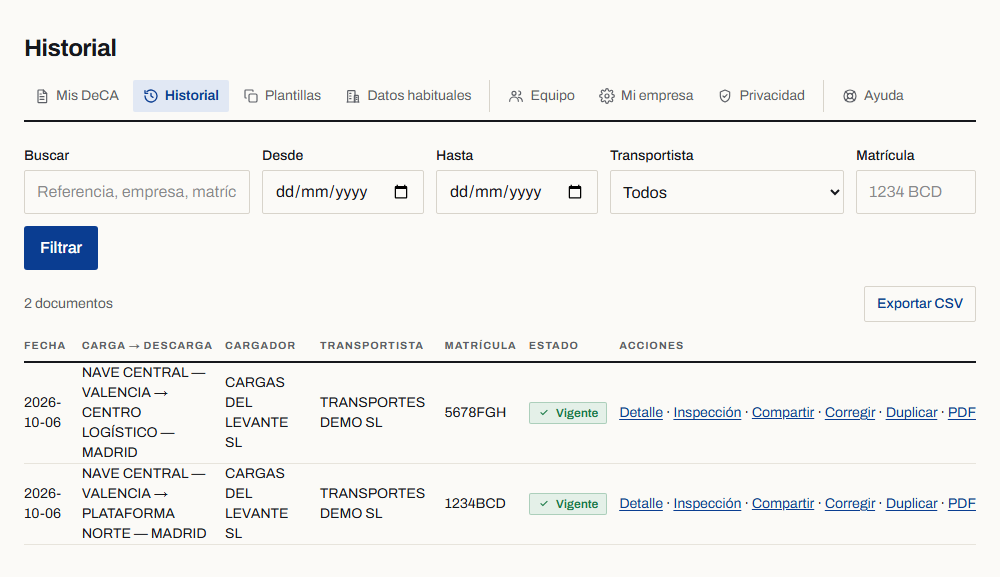
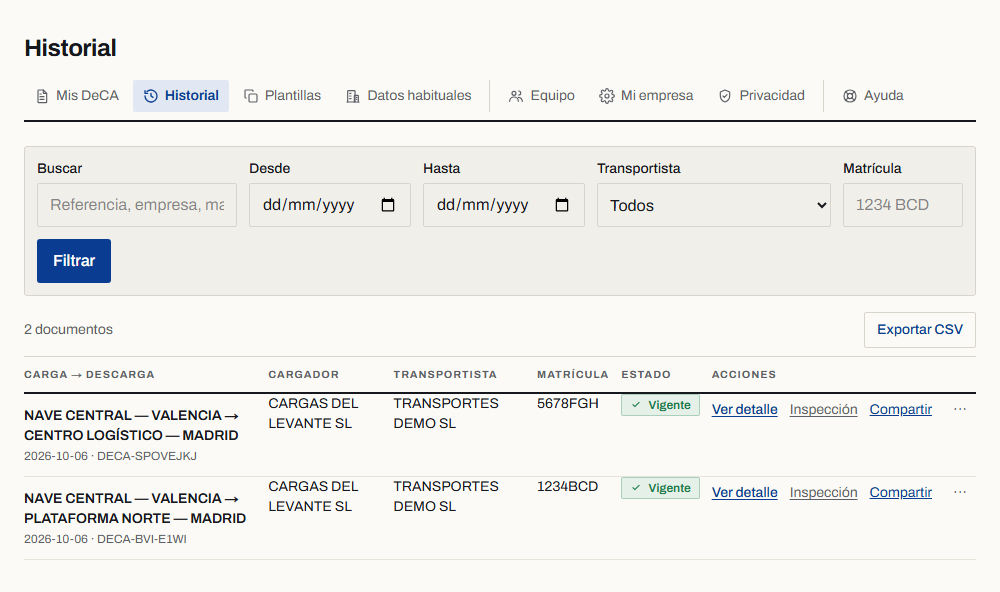
release: v0.2.0 -> v0.3.0 + Guía de uso updated for #112/#113/#114 (D-210)
Version bumped in the single mechanical source (package.json +
lib/version.ts, cross-checked by scripts/keel-verify.mjs — confirmed
"version in sync (0.3.0)"). New lightweight docs/CHANGELOG.md.

Guía de uso (prisma/content/guia-de-uso.ts) updated to describe the
product as it actually is post-#112/#113/#114: a new "Varios envíos en
un mismo DeCA" section, and the Historial/Datos habituales sections
rewritten for their real redesigns. Deliberately did not do the
issue's suggested full section reorder — the current structure already
mirrors the real 3-step wizard, and reordering would have churned
every anchor/cross-link for a cosmetic change (confirmed with the user
via the plan approval).

Real finding along the way: editing the guide's TS constant alone does
not update an already-seeded ContentItem row (seedContent() is
create-only-if-absent). Fixed via a targeted contentItem.update
(temporary script, deleted after use), mirroring the D-201c precedent
for this same row. Production needs the identical treatment at deploy
time — a plain redeploy will not refresh the live guide's body.

All screenshots regenerated via the existing automated
scripts/guide-screenshots.mjs against a genuine production build.
Found and fixed a real capture-tool bug for the one new capture
(crear-multi-envio.png): an element screenshot taller than the
viewport baked the sticky header into the composite.

443/443 unit, tsc/eslint/prettier/keel-verify clean, guide e2e suite
[…]

diff --git a/prisma/content/guia-de-uso.ts b/prisma/content/guia-de-uso.ts
@@ -117,6 +117,39 @@ La pantalla de revisión muestra **exactamente** lo que irá en el PDF. Es el me
 - **Remolque cuando no hay.** La matrícula del remolque solo se rellena en conjuntos articulados.
 - **NIF/VAT mal escrito.** Revisa la letra inicial y el dígito de control; se aceptan identificadores extranjeros.
 
+## Varios envíos en un mismo DeCA
+
+Un mismo transporte puede tener **más de un lugar de carga o descarga** — por ejemplo, recoger mercancía en dos almacenes distintos antes de entregarla, o repartirla en dos puntos diferentes. DeCA Profesional permite documentar todos esos **envíos** dentro de un único DeCA, siempre que compartan el mismo **cargador contractual** y el mismo **transportista efectivo**.
+
+::: important
+Los distintos envíos de un mismo DeCA deben tener idéntico **cargador contractual** y **transportista efectivo**. Si cambia cualquiera de los dos, se trata de un transporte distinto y necesita su propio DeCA.
+:::
+
+### Cómo añadir varios envíos
+
+En el **paso 2** del asistente (Carga y descarga) verás la pregunta **«¿Este transporte tiene varios lugares de carga o descarga?»**. Actívala para desplegar el flujo de varios envíos:
+
+1. El **primer envío** usa los campos que ya conoces: lugar de carga, lugar de descarga, mercancía y peso.
+2. Pulsa **«+ Añadir otro envío»** para abrir un bloque **ENVÍO 2** (y así sucesivamente).
+3. Cada envío tiene **su propio** origen, destino, mercancía y peso — nunca se comparten entre envíos.
+4. La fecha, la matrícula y las notas son, por defecto, las mismas del transporte, pero puedes **cambiarlas envío a envío** si ese tramo concreto usa un vehículo o una fecha distinta.
+
+![Añadir un segundo envío en el asistente de creación](/guia/crear-multi-envio.png "Envío 2: origen, destino, mercancía y peso propios")
+
+::: example
+**Valencia → Madrid + Castellón → Madrid**: recoges palés de cerámica en Valencia y azulejos en Castellón, y entregas ambos en el mismo almacén de Madrid. Es un único DeCA con dos envíos, mismo cargador y transportista.
+
+Otro caso frecuente: **Valencia → Madrid + Valencia → Toledo** — cargas en un único punto y repartes en dos destinos distintos.
+:::
+
+### Cómo se ve en el PDF
+
+El PDF muestra un bloque **«ENVÍO 1»**, **«ENVÍO 2»**… con los datos propios de cada uno, y un **PESO TOTAL** que suma los pesos de todos los envíos (cuando todos son valores numéricos comparables). El documento incluye un aviso de que **la numeración de los envíos es solo identificativa y no indica el orden en que se realizan**.
+
+### Si un dato cambia durante el transporte
+
+Si necesitas corregir cualquier dato de un DeCA con varios envíos — una dirección, un peso, una fecha — se aplica la misma corrección con versionado que en un DeCA normal: se genera una **versión nueva** conservando la anterior, y puedes editar cualquier envío individualmente sin perder los demás (ver **Histórico**, más adelante).
+
 ## PDF del DeCA
 
 El **PDF se genera al pulsar GENERAR DECA**, al terminar los tres pasos. Es un PDF nativo, no una foto del formulario.
@@ -144,12 +177,20 @@ La lista de documentos generados está en el **Histórico** y, en versión corta
 
 ## Historial
 
-El **Historial** reúne todos los DeCA de tu empresa, ordenados por fecha. Puedes:
+El **Historial** reúne todos los DeCA de tu empresa, ordenados por fecha, en un listado pensado para identificar cada documento de un vistazo: la ruta es el dato principal, seguida de la fecha y la referencia; debajo, quién carga y quién transporta; y a la derecha, el estado del documento.
 
 - **Buscar** por texto (localidad, transportista, referencia…).
-- **Filtrar por rango de fechas**.
+- **Filtrar por rango de fechas y por transportista o matrícula**.
 - **Guardar vistas** de búsqueda que uses a menudo.
 - **Exportar el histórico a CSV** para tu control interno.
+
+![Listado del Histórico](/guia/mis-deca.png "Cada DeCA se identifica por su ruta, fecha y estado")
+
+Cada fila muestra la acción principal, **«Ver detalle»**, siempre visible; **Inspección** y **Compartir** como acciones frecuentes; y el resto — **Corregir**, **Duplicar**, **PDF** — agrupadas bajo el menú **«···»**.
+
+Si un DeCA tiene **varios envíos** (ver la sección anterior), la fila muestra una insignia **«+N envíos»** junto a la ruta principal y un resumen de los trayectos adicionales, sin necesidad de abrir el detalle para saber que hay más de un envío.
+
+El **estado** de cada documento distingue entre **Vigente** (la versión actual), **Corregida** (tiene una versión posterior a la mostrada) y **No disponible**. Si buscas o filtras y no aparece ningún resultado, el Historial te lo indica claramente y te ofrece **«Limpiar filtros»** para volver a empezar.
 
 Es útil para llevar el control de la actividad y para localizar rápidamente un documento si te lo piden en una inspección o una revisión interna.
 
@@ -171,17 +212,20 @@ Ejemplos típicos de plantilla: **cliente frecuente**, **ruta habitual** (Valenc
 
 ## Datos habituales
 
-Los **datos habituales** son piezas sueltas que se reutilizan al rellenar cualquier DeCA:
+Los **datos habituales** son piezas sueltas que se reutilizan al rellenar cualquier DeCA, organizadas en pestañas:
 
-- **Empresas / transportistas habituales** (con su NIF y dirección).
-- **Vehículos** guardados (matrículas).
-- **Lugares habituales** de carga y descarga.
+- **Empresas y contactos** — cargadores y transportistas habituales, con su NIF y dirección.
+- **Vehículos** — matrículas guardadas.
+- **Lugares** — direcciones habituales de carga y descarga (un mismo lugar sirve para ambos usos, no hace falta guardarlo dos veces).
+- **Rutas / envíos habituales** — un trayecto completo (lugar de carga + lugar de descarga + mercancía y peso habituales) que se usa para rellenar de un solo golpe un **envío** dentro de un DeCA, incluido un ENVÍO N adicional en un DeCA de varios envíos (ver **Varios envíos en un mismo DeCA**).
 
-Se guardan desde **Datos habituales** y también sobre la marcha al crear un DeCA. Puedes **editarlos** o **eliminarlos** en esa misma sección.
+![Datos habituales, organizados en pestañas](/guia/datos-habituales.png "Empresas, vehículos, lugares y rutas habituales")
 
-**Diferencia con las plantillas:** una plantilla es un **porte completo** (cargador + transportista + ruta + vehículo). Un dato habitual es **un solo elemento** (una empresa, un vehículo, un lugar) que combinas libremente en cada documento.
+Un **buscador** en la parte superior filtra por cualquier campo dentro de la pestaña activa. El botón **«+ Añadir dato habitual»** abre un formulario compacto para crear una empresa, un vehículo, un lugar o una ruta; si al guardar detecta un dato muy parecido a uno ya existente, te avisa antes de crear un duplicado, pero nunca te lo impide.
 
-![Sección de datos habituales](/guia/datos-habituales.png "Empresas, vehículos y lugares habituales")
+Se guardan desde esta sección y también **sobre la marcha** al crear un DeCA — cada campo del asistente que tiene un equivalente habitual ofrece elegirlo de una lista, y puedes marcar «guardar como habitual» un dato que acabas de escribir para no volver a teclearlo. Puedes **editarlos** o **eliminarlos** cuando quieras.
+
+**Diferencia con las plantillas:** una plantilla es un **porte completo** (cargador + transportista + ruta + vehículo). Un dato habitual es **un solo elemento** (una empresa, un vehículo, un lugar o una ruta) que combinas libremente en cada documento.
 
 ## Equipo
 

diff --git a/tests/e2e/guia-uso.spec.ts b/tests/e2e/guia-uso.spec.ts
@@ -51,13 +51,31 @@ test("the guide renders its structure: TOC, working anchors, a callout and a fig
   await expect(page.getByText("¿Tengo que instalar una aplicación?")).toBeVisible();
 });
 
-test("the guide is indexable and has no horizontal overflow on a phone", async ({ page }) => {
+test("#112/#115 — the multi-envío section is documented and reachable from the TOC", async ({
+  page,
+}) => {
+  await page.goto(PATH);
+
+  const toc = page.getByRole("navigation", { name: "Contenido" });
+  const multiEnvioLink = toc.getByRole("link", { name: /Varios envíos en un mismo DeCA/i });
+  await expect(multiEnvioLink).toHaveAttribute("href", "#varios-envios-en-un-mismo-deca");
+  await multiEnvioLink.click();
+  await expect(page).toHaveURL(new RegExp(`${PATH}#varios-envios-en-un-mismo-deca$`));
+  await expect(page.locator("#varios-envios-en-un-mismo-deca")).toBeInViewport();
+
+  await expect(page.getByText("Añadir otro envío", { exact: false }).first()).toBeVisible();
+  await expect(page.getByText(/Castellón.*Madrid/).first()).toBeVisible();
+});
+
+test("the guide is indexable and has no horizontal overflow at any of the product's breakpoints", async ({
+  page,
+}) => {
   await page.goto(PATH);
 
   // Indexable — no robots noindex (ArticleLayout only adds it in preview mode).
   await expect(page.locator('meta[name="robots"][content*="noindex"]')).toHaveCount(0);
 
-  for (const width of [320, 1440]) {
+  for (const width of [320, 375, 390, 430, 768, 1024, 1280, 1440]) {
     await page.setViewportSize({ width, height: 900 });
     await page.waitForTimeout(150);
     const overflow = await page.evaluate(

diff --git a/tests/e2e/admin.spec.ts b/tests/e2e/admin.spec.ts
@@ -135,7 +135,7 @@ test.describe("ADMIN #33 — internal command center", () => {
         route: "POST /api/deca",
         authenticated: false,
         storageDriver: "local",
-        appVersion: "0.2.0",
+        appVersion: "0.3.0",
       },
     });
 

diff --git a/tests/unit/analytics.test.ts b/tests/unit/analytics.test.ts
@@ -37,7 +37,7 @@ describe("eventInputSchema", () => {
       sessionId: "abcdefgh1234",
       path: "/",
       ref: { ref: "adrian" },
-      appVersion: "0.2.0",
+      appVersion: "0.3.0",
     });
     expect(r.success).toBe(true);
   });

diff --git a/lib/version.ts b/lib/version.ts
@@ -1,2 +1,2 @@
 /** Single source of the app version — shown in the footer, PDF producer metadata and analytics. */
-export const APP_VERSION = "0.2.0";
+export const APP_VERSION = "0.3.0";

diff --git a/docs/decisions.md b/docs/decisions.md
@@ -7162,3 +7162,113 @@ redeploy to actually run any of today's work.
 
 **Next:** #115 (v0.2.0 → v0.3.0 + docs close-out) — now fully unblocked, #112/#113/#114 all
 complete.
+
+## D-210 — I-115: Guía de uso updated, v0.2.0 → v0.3.0 release closeout (2026-09-11)
+
+Issue #115 was explicitly gated on #112 (multi-envío), #113 (Datos habituales redesign) and #114
+(Historial redesign) all being integrated — all three shipped earlier this session. This is a
+documentation/version closeout only, no new business logic, per the issue's own explicit
+instruction (§10).
+
+**Version bump — single source of truth, cascaded automatically.** `package.json` and
+`lib/version.ts`'s `APP_VERSION` (already the one mechanical source read by the footer, `/health`,
+admin `/sistema`, PDF producer metadata, and analytics — `scripts/keel-verify.mjs` already
+cross-checks the two never drift) both moved `0.2.0` → `0.3.0`. `package-lock.json`'s two root-
+project version mirrors updated to match (not touched via a full `npm install`, which would risk
+touching dependency versions). Two test fixtures using an arbitrary "0.2.0" literal (neither
+asserts it against the real `APP_VERSION` — `tests/e2e/admin.spec.ts`'s fabricated
+`generationFailure` row, `tests/unit/analytics.test.ts`'s schema-acceptance fixture) updated to
+`0.3.0` for consistency, not because either needed to. `node scripts/keel-verify.mjs` confirms
+`version in sync (0.3.0)`. Exhaustive grep confirmed zero remaining `0.2.0` string anywhere in
+tracked source outside `package-lock.json`'s dependency entries.
+
+**New `docs/CHANGELOG.md`** — no changelog existed before this session. One lightweight v0.3.0
+entry (the issue's own suggested bullet list: multi-envío, Datos habituales, Histórico,
+usability/responsive, guide update) — no new tooling, no retroactively-invented prior versions.
+
+**Guía de uso updated** (`prisma/content/guia-de-uso.ts`) to describe the product as it actually
+is post-#112/#113/#114:
+1. **New section "Varios envíos en un mismo DeCA"**, inserted directly after "Cómo crear un DeCA"
+   (where the real wizard's toggle lives) rather than following the issue's suggested full
+   top-level reorder splitting creation into separate empresas/vehículos/lugares sections — a
+   deliberate, flagged deviation (confirmed with the user via the plan's ExitPlanMode approval):
+   the current order already mirrors the real 3-step wizard, and the suggested reorder is the
+   issue's "recommended," not mandated, and would have churned every anchor link (TOC,
+   `relatedSlugs` cross-links, the e2e test's own anchor assertions) for a cosmetic reordering.
+   Covers when multi-envío applies (same cargador/transportista), how to use "Añadir otro envío",
+   per-envío data, PESO TOTAL, the numbering-≠-order disclaimer, the PDF rendering, and correction/
+   versioning of a multi-envío document — using the issue's own worked examples (Valencia→Madrid +
+   Castellón→Madrid; Valencia→Madrid + Valencia→Toledo).
+2. **"Historial" section rewritten** for the D-209 redesign: route-first row hierarchy, the
+   "+N envíos" summary, "Ver detalle" as the primary action with Inspección/Compartir visible and
+   Corregir/Duplicar/PDF under the "···" menu, Vigente/Corregida/No disponible status, and the
+   filtered-empty-state "Limpiar filtros" flow.
+3. **"Datos habituales" section rewritten** for the D-207/D-208 redesign: the 4 tabs (Empresas/
+   Vehículos/Lugares/Rutas), global search, the "+ Añadir dato habitual" modal, duplicate-warning
+   behaviour, and the new "ruta/envío habitual" concept explained specifically in terms of filling
+   an ENVÍO N block from the wizard.
+4. Terminology spot-checked (DeCA/cargador contractual/transportista efectivo/envío/lugar de
+   carga/lugar de descarga/PDF/QR/Modo inspección) — already consistent from prior sessions' legal-
+   terminology passes, no rewrite needed. Every other section (12 of 19) reviewed and left as-is —
+   none of #112/#113/#114 touched those areas, and the issue explicitly forbids documenting
+   speculative functionality.
+5. **i18n out of scope, confirmed by design (D-002):** editorial content (blog/guides) is Spanish-
+   only; the product UI's 8-locale dictionary system is separate and untouched here. Issue §8 is
+   conditional on the guide supporting multiple languages, which it doesn't.
+6. **Image lightbox/zoom (§9) skipped** — no such UI exists in `lib/content/markdown.tsx` today,
+   and building one is not "simple to integrate" as the issue's own conditional requires.
+
+**A real, non-obvious finding: editing the TS constant alone does NOT update already-seeded
+content.** `prisma/content-seed.ts`'s `seedContent()` is create-only-if-absent (`if (existing)
+continue`) — the guide's `ContentItem` row already existed in the dev DB from the original #111
+seeding, so re-running `npm run seed:content` would have silently skipped the new body entirely.
+Fixed by a targeted `contentItem.update` (temporary, uncommitted script, deleted after use)
+against the existing row by id — same id, same `published` status, same total `ContentItem` count
+before/after (5→5) — mirroring the exact practice already established and documented at D-201c for
+this same guide row. **This same gap will exist in production**: deploying the new code alone will
+not update the live guide's already-seeded body; the production row needs the identical targeted
+update at deploy time (or via the existing admin CMS edit UI), not a re-seed.
+
+**Screenshots regenerated for real** via the existing, already-automated
+`scripts/guide-screenshots.mjs` (built for #111, zero manual browser work) against a genuine
+`npm run build && npm run start` production server with the version bump and updated guide content
+both live (`/health` confirmed `"version":"0.3.0"` before capturing). `mis-deca.png` and
+`datos-habituales.png` regenerated automatically with the new D-209/D-208 UI, no script change
+needed since both already pointed at the real routes. One new capture added,
+`crear-multi-envio.png` (the wizard's ENVÍO 2 block, filled with the guide's own worked example
+data) — **found and fixed a real rendering bug in the capture itself, not the product**: an
+element screenshot taller than the default viewport baked the page's sticky header into the middle
+of the composite (a Playwright/CDP capture quirk, not a UI bug); fixed by measuring the block's
+real height, temporarily widening the viewport to fit it in one frame, and nudging the scroll
+position up by the header's own measured height plus blurring the last-focused field so no stray
+focus ring was captured — verified by inspecting the resulting PNG directly, twice, before and
+after the fix.
+
+**Verified for real:** `tests/e2e/guia-uso.spec.ts` extended (not replaced) — a new test confirms
+the "Varios envíos en un mismo DeCA" heading is in the TOC, its anchor resolves and scrolls into
+view, and the section's own body text (the "Añadir otro envío" instruction, the Castellón→Madrid
+example) is actually present; the existing responsive check widened from [320, 1440] to the
+issue's full named breakpoint list [320, 375, 390, 430, 768, 1024, 1280, 1440]. All 4 guide e2e
+tests run twice — once against a manually-started server (caught nothing new, confirmed clean),
+once via Playwright's own properly-configured `webServer` per this session's own lessons-learned
+rule — both runs 4/4 green. `tests/e2e/admin.spec.ts`'s specific test touching the `appVersion`
+fixture re-run directly and confirmed green.
+
+**Gate, confirmed complete:** 443/443 unit (no new — this issue changed content/config/scripts,
+not logic), tsc/eslint/prettier/keel-verify clean (`version in sync (0.3.0)` specifically
+confirmed), guide e2e suite 4/4 green, `admin.spec.ts`'s affected test green. Exhaustive grep
+confirmed zero remaining `v0.2.0`/`0.2.0` string anywhere in tracked, non-lockfile-dependency
+source.
+
+**Also this session, before starting #115:** created GitHub issue #116 (Portuguese, `pt`, as a
+supported UI language) per the user's explicit request — motivated by this session's own D-202
+incident (a Portuguese company blocked from self-registering) surfacing that Portuguese-speaking
+users are real, and Portugal's direct border with Spain makes it a meaningfully sized addressable
+market. Scoped narrowly to the existing 8-locale dictionary-system pattern
+(`lib/i18n/dictionaries/*.ts` + `lib/i18n/locale.ts`'s `LOCALES` tuple) — explicitly excludes
+editorial content and the fixed-Spanish legal pages, matching this project's own existing i18n
+architecture (D-002, D-072). Not started — queued.
+
+**Next:** #115 is the last issue in the explicitly-ordered queue the user gave this session
+(#112→#115) — all four are now complete. #116 (Portuguese i18n) is open and unstarted, no other
+issue is queued.

diff --git a/docs/05-test-points.md b/docs/05-test-points.md
@@ -191,3 +191,10 @@
 | 2026-09-11 | I-114/D-209 — real browser: mobile cards, no horizontal scroll | at 375px, `historico-cards` is visible and `historico-table` is hidden; the card shows the "+1 envío" badge, a "Ver detalle" link, and the `RowMenu` still exposes Corregir; `document.documentElement.scrollWidth - clientWidth` ≤ 1px | driven (Playwright, `historico-redesign.spec.ts`) | n/a — new UI, additive; the overflow measurement is the actual proof, not just a visual read | `npx playwright test tests/e2e/historico-redesign.spec.ts` | PASS (same run) | (this commit) |
 | 2026-09-11 | I-114/D-209 — filter logic genuinely untouched: 7 pre-existing specs re-run unmodified | every pre-existing action (detail/inspección/compartir/corregir/duplicar/PDF, saved-data autofill flowing into a row, CSV export, team-scoped history visibility, the a11y scan of `/panel/historico`) still passes through the redesigned DOM with the SAME assertions, no locator rewrites needed beyond the "Detalle"→"Ver detalle" substring-match design already confirmed | driven (Playwright: `workspace.spec.ts` 7/7, `creator-v2.spec.ts` 5/5, `driver-delivery.spec.ts` 3/3, `team.spec.ts` 9/9, `master-data.spec.ts` 2/2, `export-csv.spec.ts` 3/3, `row-share.spec.ts` 1/1) | n/a — regression guard through a changed DOM path, not a reproduction | `npx playwright test tests/e2e/workspace.spec.ts tests/e2e/creator-v2.spec.ts tests/e2e/driver-delivery.spec.ts tests/e2e/team.spec.ts tests/e2e/master-data.spec.ts tests/e2e/export-csv.spec.ts tests/e2e/row-share.spec.ts` | PASS (30/30) | (this commit) |
 | 2026-09-11 | I-114/D-209 — full unit regression + static gates | nothing else regressed | driven (Vitest 443/443, 61 files) | n/a — policy | `npx vitest run tests/unit && npx tsc --noEmit && npx eslint <changed files> && npx prettier --check <changed files> && node scripts/keel-verify.mjs` | PASS (443/443; tsc/eslint/prettier/keel-verify all clean) | (this commit) |
+| 2026-09-11 | I-115/D-210 — version bump is in sync everywhere it's checked mechanically | `package.json.version === lib/version.ts APP_VERSION`; `/health` reports the new version against a real running build | driven (`node scripts/keel-verify.mjs`'s existing version-sync check; `curl /health` against a real `npm run build && npm run start`) | n/a — mechanical check, not a reproduction | `node scripts/keel-verify.mjs && curl http://localhost:3000/health` | PASS — "version in sync (0.3.0)"; `{"status":"ok","version":"0.3.0","db":"up"}` | (this commit) |
+| 2026-09-11 | I-115/D-210 — LIVE finding: editing the guide's TS body does not update an already-seeded `ContentItem` row | after a targeted `contentItem.update` (temporary script, deleted after use), the SAME row id, `published` status, and total `ContentItem` count (5→5) are preserved — no duplicate, no reseed, matching the exact D-201c precedent for this row | driven (manual Prisma query before/after, via `npx tsx` against the dev DB) | **observed** — confirmed `seedContent()` is create-only-if-absent by reading the source, then confirmed a plain `npm run seed:content` re-run would have silently no-opped (not executed, to avoid an unnecessary destructive-adjacent step; reasoned from the guarded `if (existing) continue`) | direct Prisma `contentItem.update` + before/after `contentItem.count()` | PASS — id/status/count unchanged, body updated | (this commit) |
+| 2026-09-11 | I-115/D-210 — the "Varios envíos" guide section is documented and reachable from the TOC | the heading appears in the auto TOC, its anchor (`#varios-envios-en-un-mismo-deca`) resolves and scrolls into view, and the section's own body (the "Añadir otro envío" instruction, the Castellón→Madrid worked example) is present | driven (Playwright, `guia-uso.spec.ts`, 1 new test) | n/a — new content, additive; the anchor-id assertion was derived from `slugifyHeading()`'s real algorithm, not guessed, then confirmed by running the test | `npx playwright test tests/e2e/guia-uso.spec.ts` | PASS (4/4) | (this commit) |
+| 2026-09-11 | I-115/D-210 — real screenshots regenerated against a genuine production build match the redesigned UI | `mis-deca.png` (Historial) and `datos-habituales.png` regenerate automatically with #113/#114's new UI via the SAME existing script calls (no script change needed for those two); the new `crear-multi-envio.png` shows the full ENVÍO 2 block | driven (manual: `node scripts/guide-screenshots.mjs` against a real `npm run build && npm run start`, PNGs read/inspected directly) | **observed** — the first `crear-multi-envio.png` capture had a real tool bug (the sticky header baked into the middle of a too-tall element screenshot); fixed by measuring the block's real height, widening the viewport to fit it, and compensating the scroll position for the header's own height; re-captured and visually confirmed clean | `node scripts/guide-screenshots.mjs` (twice — before/after the capture fix) | PASS — all 12 PNGs regenerated, `crear-multi-envio.png` clean on the second pass | (this commit) |
+| 2026-09-11 | I-115/D-210 — guide e2e suite, run twice (once per this session's own webServer lesson) | all 4 guide tests pass whether the server happens to already be running or is started fresh by Playwright's own `webServer` | driven (Playwright, `guia-uso.spec.ts`, full file both times) | n/a — regression + environment-discipline guard, not a reproduction | `npx playwright test tests/e2e/guia-uso.spec.ts` (twice, server state varied deliberately) | PASS (4/4 both times) | (this commit) |
+| 2026-09-11 | I-115/D-210 — the one `admin.spec.ts` test touching the updated `appVersion` fixture | the generation-failure detail page still renders and the triage flow (note + resolve) still works with the fixture's version string updated to match the real bump | driven (Playwright, `admin.spec.ts`, existing test, unmodified assertions) | n/a — the fixture value is never asserted against `APP_VERSION` directly; updated for consistency, verified it still passes | `npx playwright test tests/e2e/admin.spec.ts -g "correlation code and can be triaged"` | PASS (1/1) | (this commit) |
+| 2026-09-11 | I-115/D-210 — full unit regression + static gates | nothing else regressed (this issue changed content/config/scripts, not logic — no new unit tests expected or added) | driven (Vitest 443/443, 61 files) | n/a — policy | `npx vitest run tests/unit && npx tsc --noEmit && npx eslint <changed files> && npx prettier --check <changed files> && node scripts/keel-verify.mjs` | PASS (443/443; tsc/eslint/prettier/keel-verify all clean) | (this commit) |

diff --git a/docs/issues.md b/docs/issues.md
@@ -870,6 +870,46 @@ anonymize-in-place (no hard delete, D-067).
   verde. **I-114 queda completamente cerrado. #115 queda totalmente desbloqueado** (#112/#113/#114
   ya están todos completos).
 
+## I-115 — Actualizar Guía de uso y subir versión de v0.2.0 a v0.3.0
+- 2026-09-11. Issue del usuario, ya existía en el forge. Explícitamente supeditado a que #112, #113
+  y #114 estuvieran integrados — los tres se cerraron antes en esta misma sesión. Es un cierre de
+  versión: solo documentación y versión visible, nada de lógica de negocio nueva (§10 del propio
+  issue).
+- **HECHA en `develop`, sin fusionar a `main` (D-210).** Versión subida en la única fuente mecánica
+  (`package.json` + `lib/version.ts`, ya cruzadas por `scripts/keel-verify.mjs` — confirmado
+  "version in sync (0.3.0)"). Nuevo `docs/CHANGELOG.md` ligero (no existía ninguno) con una entrada
+  v0.3.0. Guía (`prisma/content/guia-de-uso.ts`) actualizada: nueva sección "Varios envíos en un
+  mismo DeCA" (#112, insertada justo después de "Cómo crear un DeCA", donde vive el interruptor
+  real del asistente) y las secciones de Histórico y Datos habituales reescritas para reflejar los
+  rediseños reales de D-209/D-207/D-208. **Decisión deliberada, distinta de lo que pedía el propio
+  issue:** NO se hizo la reordenación completa de secciones que sugería el §4 — el orden actual ya
+  sigue el asistente real paso a paso, y esa reordenación era "recomendada", no obligatoria; habría
+  roto todos los anclajes (índice, enlaces cruzados, las propias comprobaciones del test e2e) para
+  un cambio cosmético. Confirmado con el usuario en la aprobación del plan.
+- **Hallazgo real, no previsto originalmente:** editar la constante TS de la guía NO actualiza un
+  `ContentItem` ya sembrado — `seedContent()` solo crea si no existe, nunca actualiza. Corregido con
+  un `contentItem.update` dirigido (script temporal, no comprometido, borrado tras usarlo),
+  exactamente el mismo patrón ya establecido en D-201c para esta misma fila (mismo id, mismo
+  estado, mismo recuento total antes/después). **Producción necesitará la misma actualización
+  dirigida al desplegar** — un simple redeploy no refresca el cuerpo de la guía ya sembrada allí.
+- Capturas de pantalla regeneradas de verdad con el script ya automatizado
+  `scripts/guide-screenshots.mjs` (de #111, sin trabajo manual de navegador) contra una build de
+  producción real (`/health` confirmó "version":"0.3.0" antes de capturar). `mis-deca.png` y
+  `datos-habituales.png` se regeneraron solas con la UI nueva; nueva captura
+  `crear-multi-envio.png` (bloque ENVÍO 2). **Fallo real encontrado y corregido en la propia
+  herramienta de captura, no en el producto:** una captura de elemento más alta que el viewport
+  metía la cabecera fija en medio de la imagen; corregido midiendo la altura real del bloque,
+  ampliando el viewport solo para esa captura y desplazando el scroll para compensar la cabecera.
+- Gate: 443/443 unitarios (sin nuevos — solo contenido/config/scripts), tsc/eslint/prettier/
+  keel-verify limpios, suite e2e de la guía 4/4 en verde (ejecutada dos veces, una con el servidor
+  gestionado correctamente por Playwright según la propia lección de esta sesión), el test afectado
+  de `admin.spec.ts` en verde. **I-115 queda completamente cerrado — era el ÚLTIMO issue de la cola
+  explícita del usuario (#112→#115); los cuatro están ya completos.**
+- **También en esta sesión:** abierto el issue #116 (soporte de portugués `pt` como idioma de la
+  interfaz), a petición explícita del usuario, motivado por el incidente D-202 de esta misma
+  sesión. Acotado al sistema de diccionarios de 8 idiomas ya existente; el contenido editorial y
+  las páginas legales quedan fuera (D-002/D-072). Sin empezar.
+
 - 2026-09-10. Abierto por Keel antes de empezar (política "Issue capture: on"). Un issue paraguas,
   4 partes, un sprint cada una. Plan: `~/.claude/plans/stateful-puzzling-sunrise.md`.
 - **Parte 1 — Guía de uso (D-195): HECHA en `develop`, sin fusionar a `main`.**

diff --git a/docs/PROGRESS.md b/docs/PROGRESS.md
@@ -45,6 +45,34 @@
 
 ## Current position
 - Phase: 5 — Development (execution mode, D-019). Sprint 2 **CLOSED**. **v1 released to `main`.**
+- **D-210 — I-115: Guía de uso updated + v0.2.0 → v0.3.0 release closeout, this session
+  (2026-09-11), immediately after D-209. Full detail in `docs/decisions.md` D-210.** Version
+  bumped in the single mechanical source (`package.json` + `lib/version.ts`, cross-checked by
+  `scripts/keel-verify.mjs` — confirmed `version in sync (0.3.0)`). New lightweight
+  `docs/CHANGELOG.md` (none existed before). Guide (`prisma/content/guia-de-uso.ts`) updated with
+  a new "Varios envíos en un mismo DeCA" section (#112) and rewritten Historial/Datos habituales
+  sections matching D-209/D-207/D-208's real redesigns — deliberately did NOT do the issue's
+  suggested full top-level reorder (confirmed with the user via the plan approval), since the
+  current "Paso 1/2/3" structure already mirrors the real wizard and a reorder would have churned
+  every anchor/cross-link for a cosmetic change. **Real finding, not originally scoped:** editing
+  the guide's TS constant alone does NOT update an already-seeded `ContentItem` row —
+  `seedContent()` is create-only-if-absent. Fixed via a targeted `contentItem.update` (temporary,
+  uncommitted script, deleted after use) mirroring the exact D-201c precedent for this same row —
+  same id, same status, same total row count before/after. **Production needs the identical
+  targeted update at deploy time** — a plain redeploy will NOT refresh the live guide's body.
+  All screenshots regenerated for real via the existing automated `scripts/guide-screenshots.mjs`
+  against a genuine production build (confirmed `/health` → `"version":"0.3.0"` first); found and
+  fixed a real capture-tool bug along the way (a too-tall element screenshot baked the sticky
+  header into the composite) for the one new capture, `crear-multi-envio.png`. **Gate: 443/443
+  unit (no new — content/config/scripts only), tsc/eslint/prettier/keel-verify clean, guide e2e
+  suite 4/4 green (run twice, once via Playwright's own properly-managed server per this
+  session's own lessons-learned rule), the one affected `admin.spec.ts` test green.** Ready to
+  commit/push. **I-115 complete — this was the LAST issue in the user's explicitly-ordered queue
+  (#112→#115); all four are now done.**
+- **New issue #116 opened this session** (Portuguese `pt` as a supported UI language, per the
+  user's explicit request) — motivated by this session's own D-202 incident. Scoped to the
+  existing 8-locale dictionary pattern; editorial content and legal pages excluded per D-002/D-072.
+  Not started.
 - **Production migration gap check (2026-09-11), before starting I-114:** confirmed no gap other
   than D-207's `saved_shipment` migration, applied it directly to production, verified RLS enabled
   (`relrowsecurity: true`) and 0 rows. Production DB schema is now current through D-208; app code

diff --git a/docs/CHANGELOG.md b/docs/CHANGELOG.md
@@ -1,0 +1,13 @@
+# Changelog
+
+Lightweight release notes for DeCA Profesional. Only user-visible changes that shipped are
+listed here — see `docs/decisions.md` for the full engineering record.
+
+## v0.3.0 — 2026-09-11
+
+- Soporte para múltiples envíos dentro de un mismo DeCA.
+- Mejora de Datos habituales y reutilización de información operativa (incluye rutas/envíos
+  habituales).
+- Rediseño visual del Histórico.
+- Mejoras de usabilidad y responsive.
+- Actualización completa de la Guía de uso.
